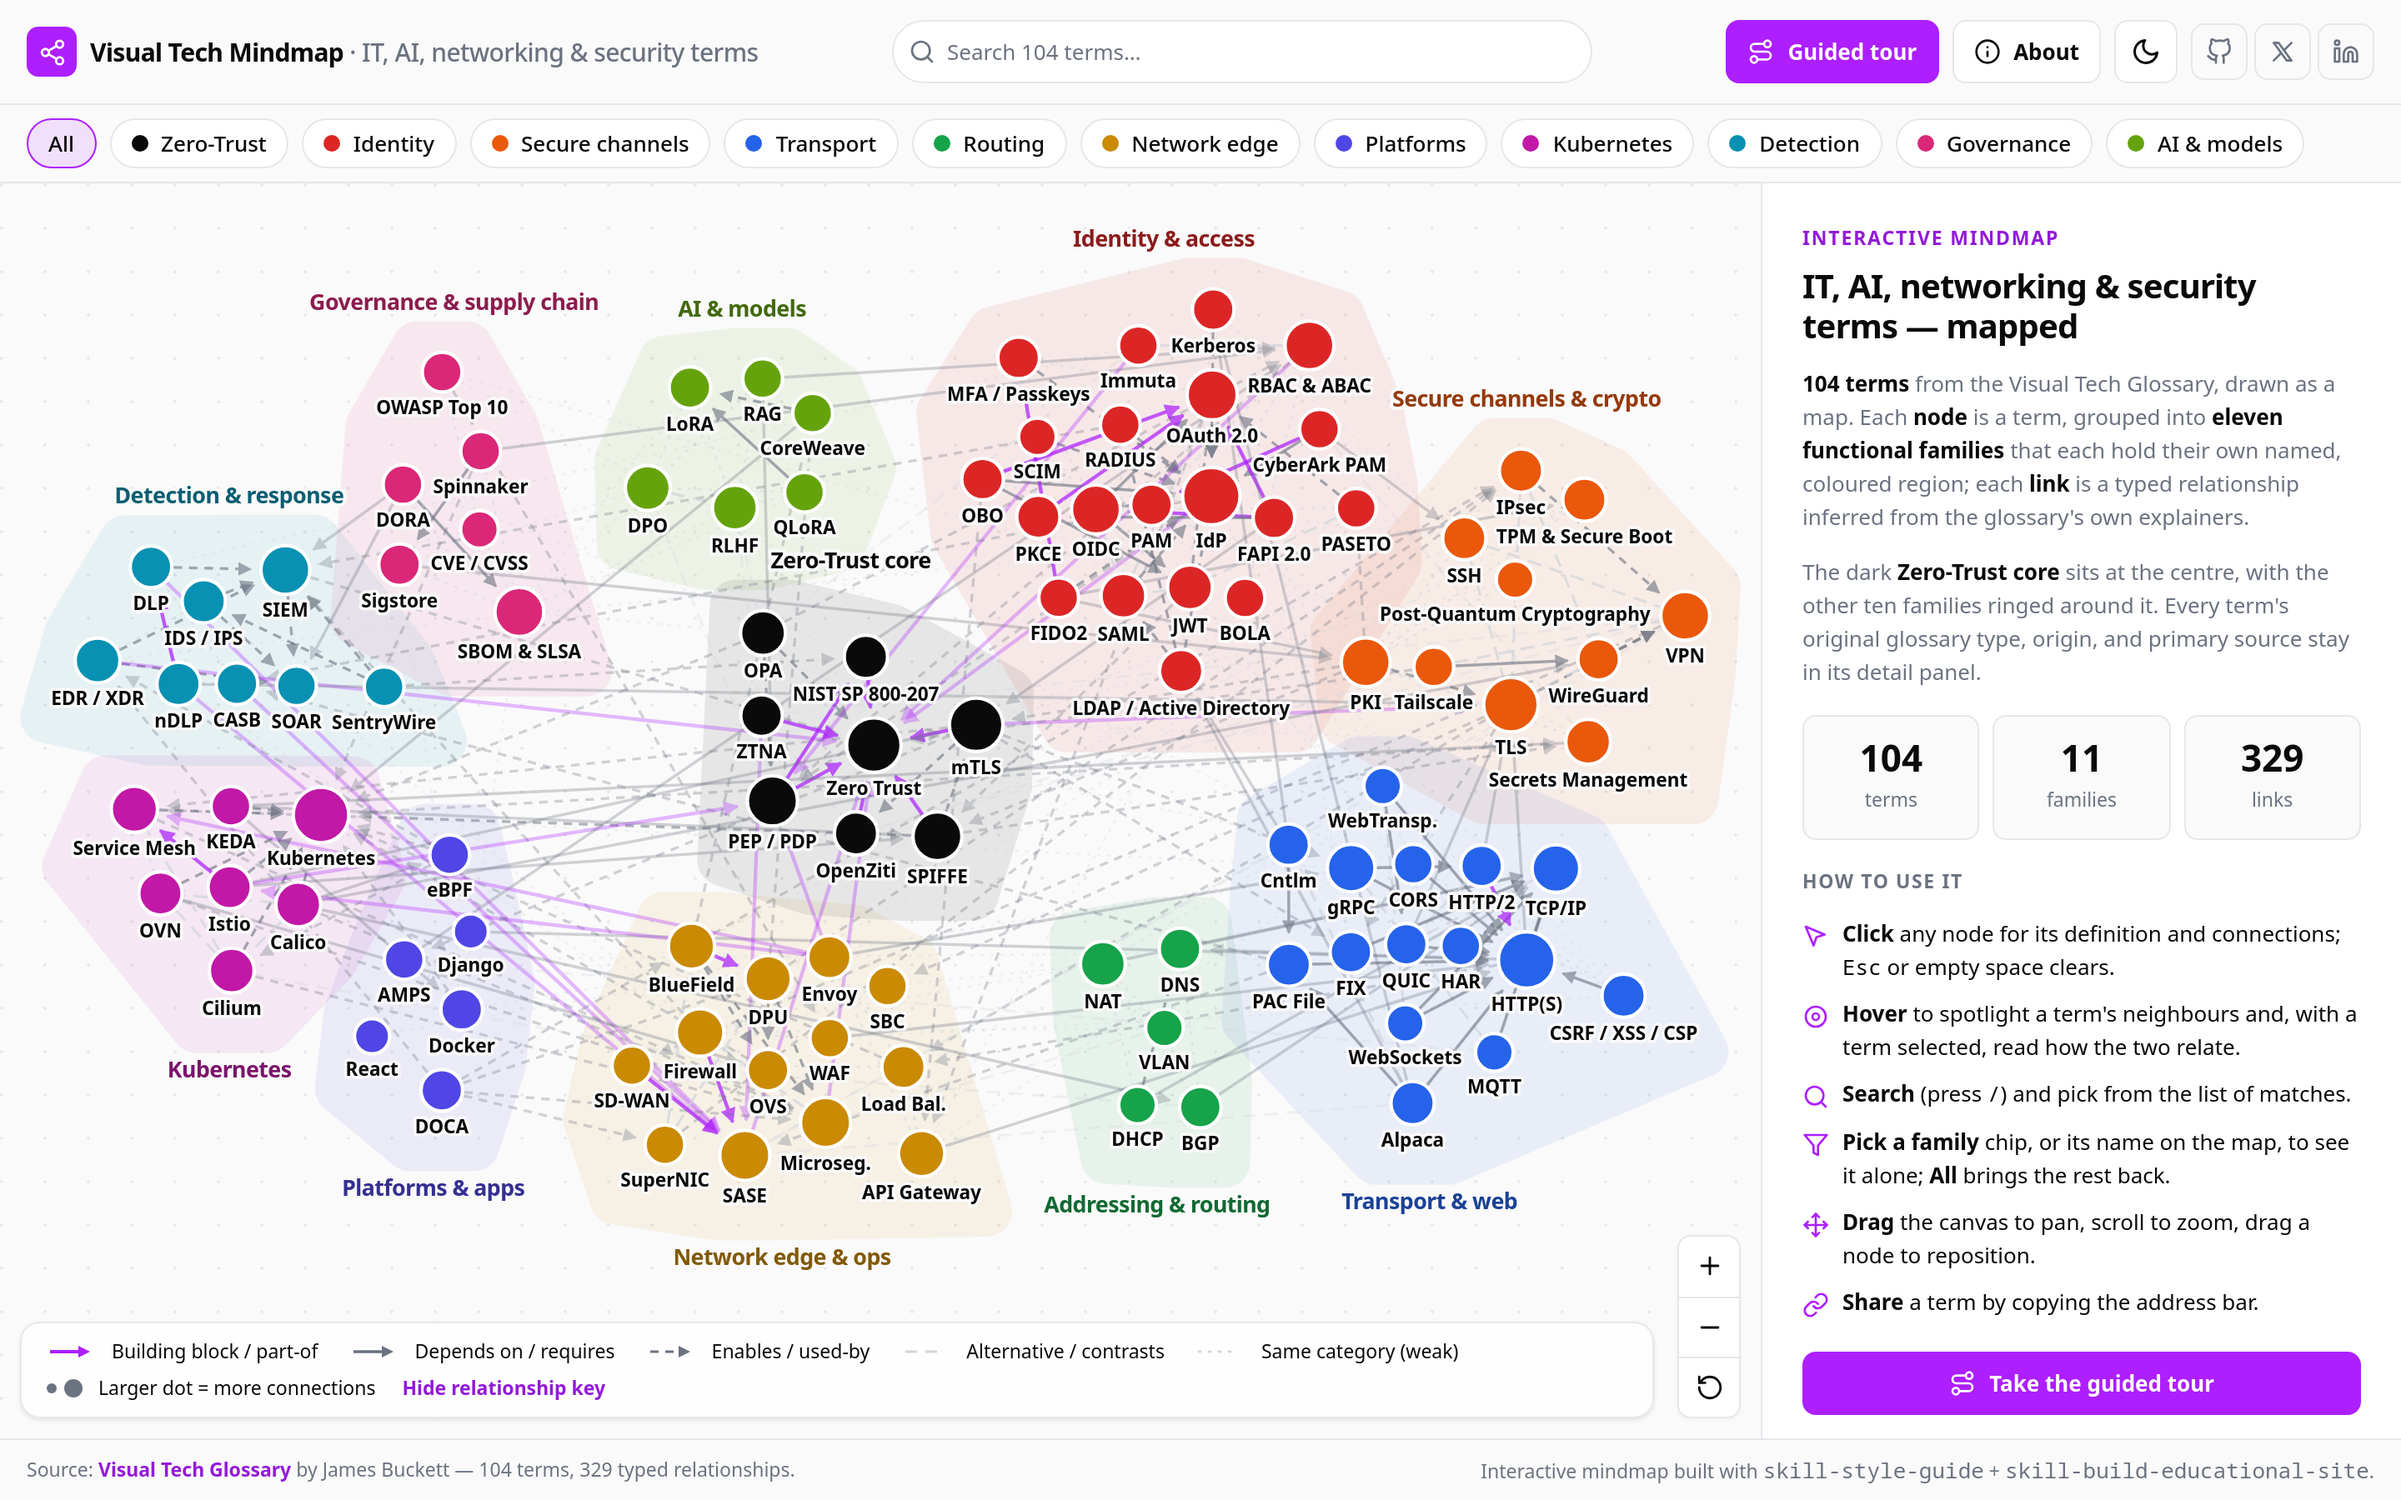
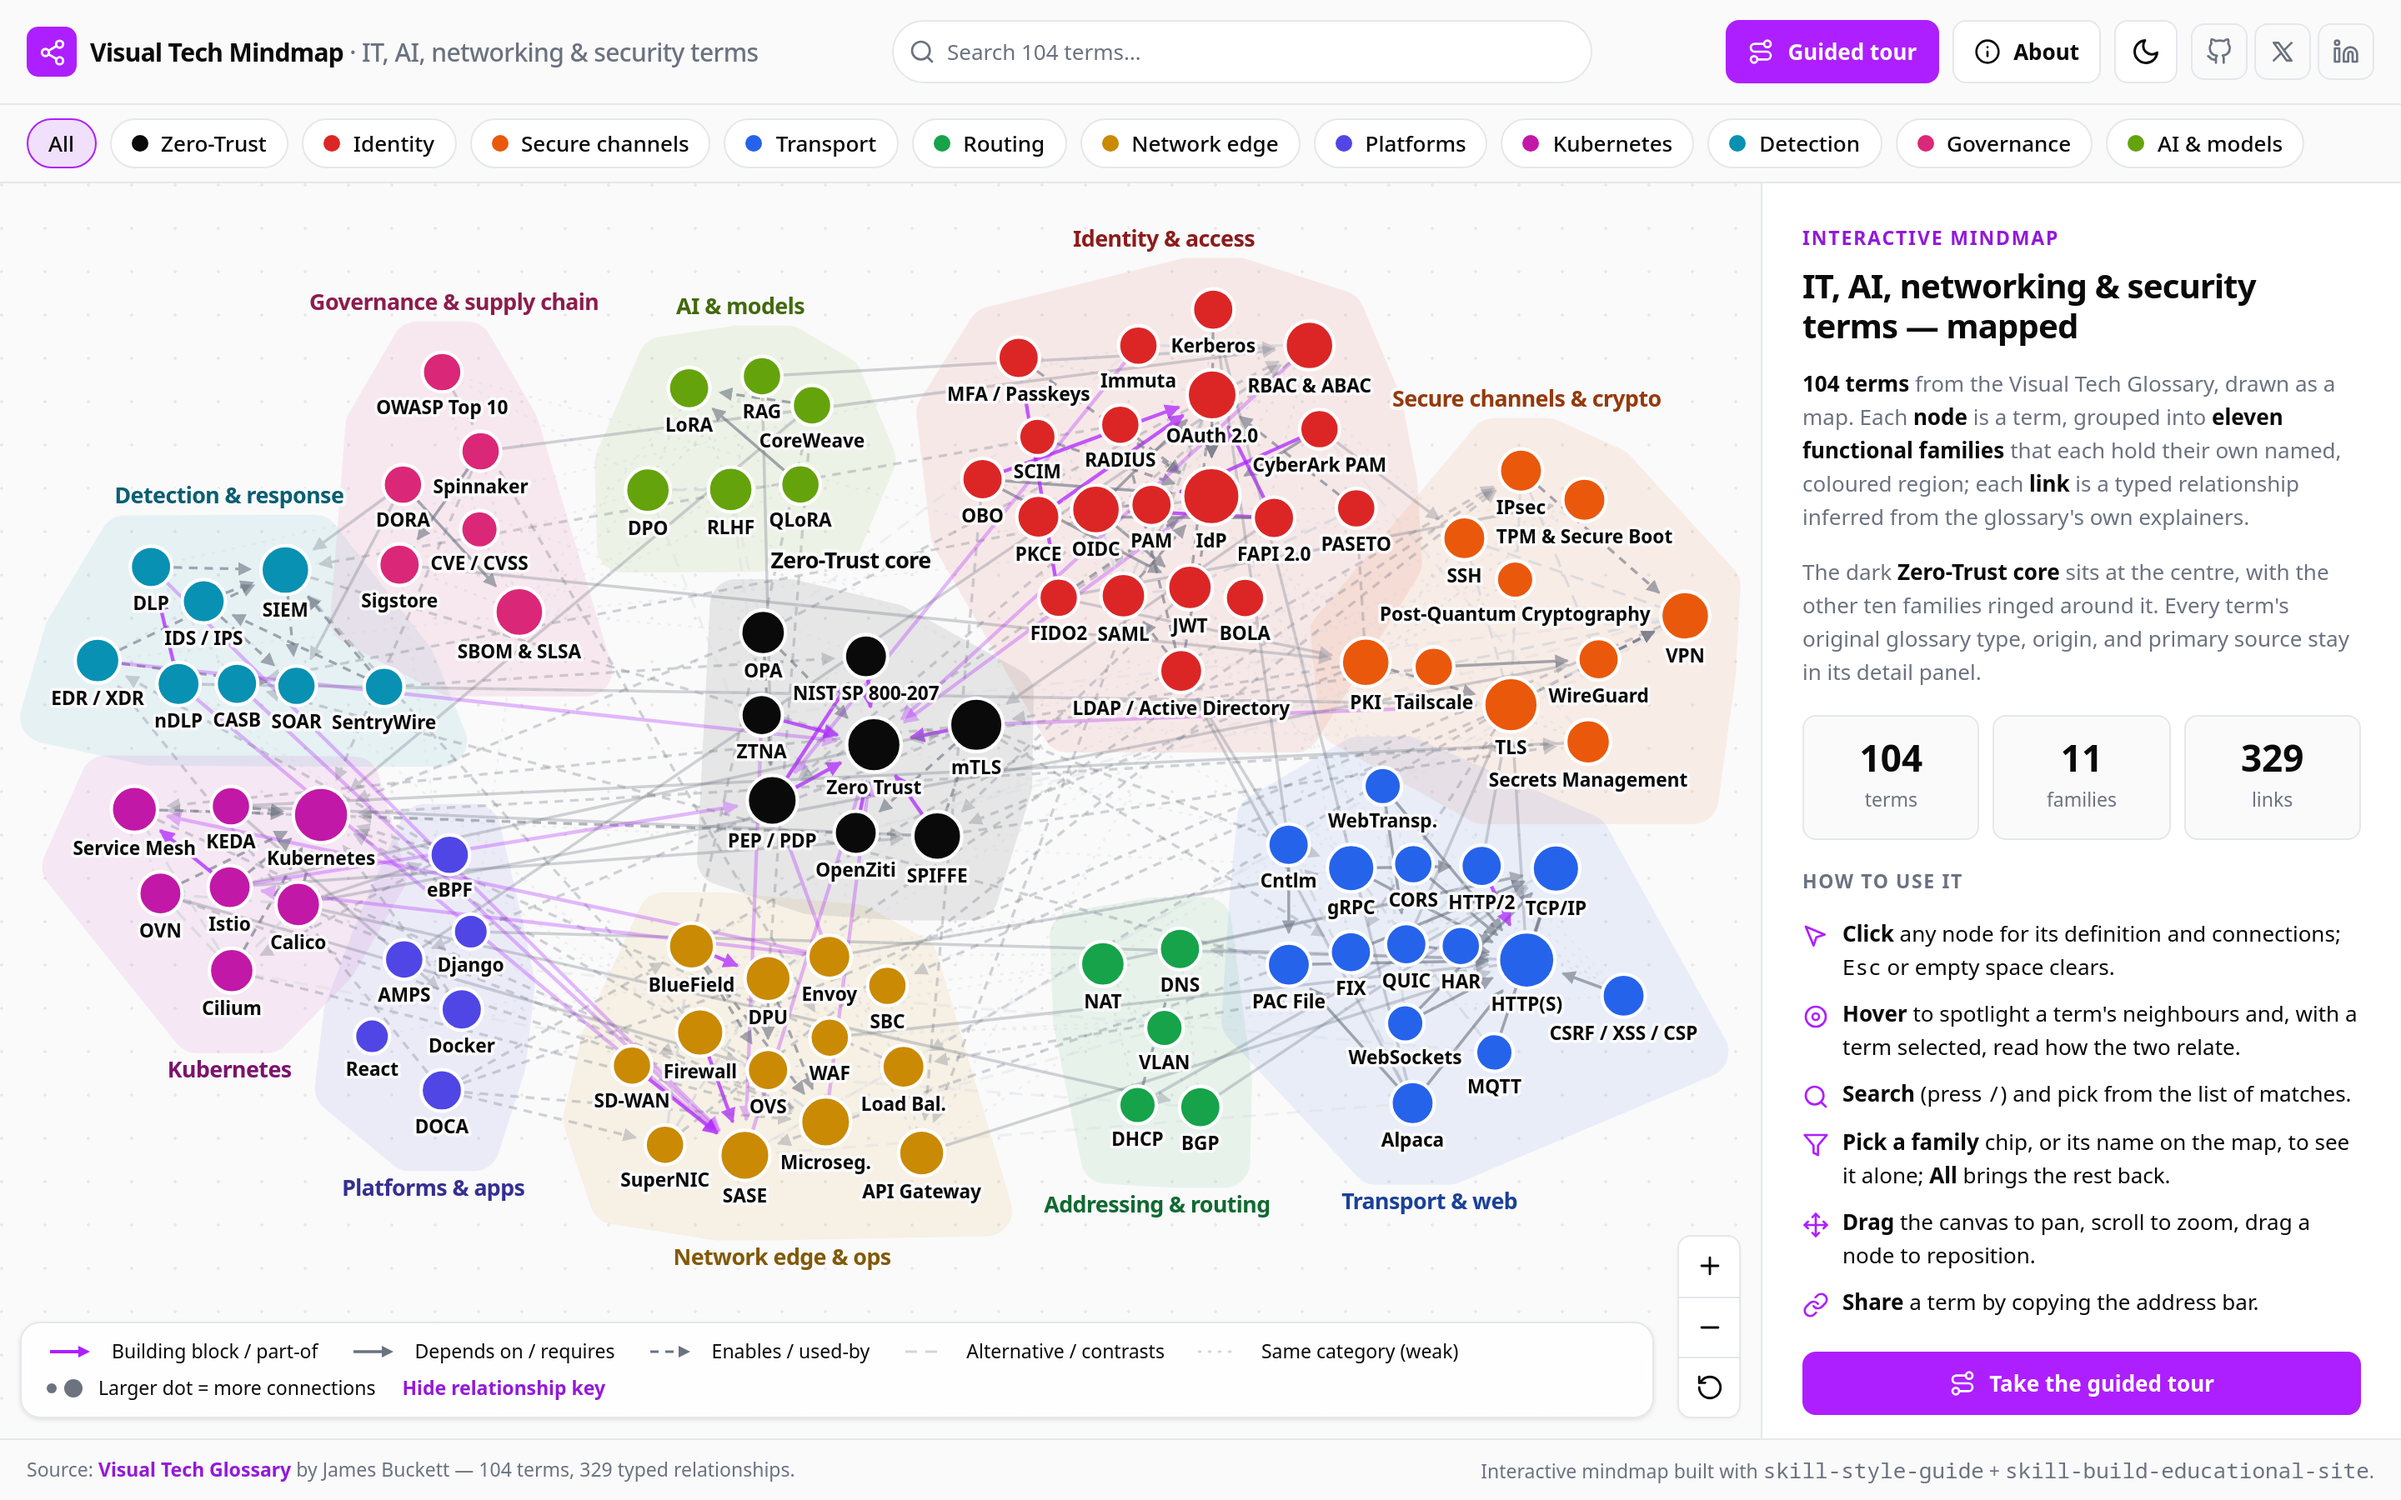
fix: keep family names out of neighbouring regions
A family's name could land inside a neighbouring family's region: it was
always centred above or below its own family, and nothing stopped a
neighbour's region, being a convex hull, from bridging straight across
it. Re-tuning RING_TURN only moved the problem around.

- chooseNameSlots(): when the layout settles, each name takes the spot on
  its own rim (above or below; left, middle or right) that lies least
  inside another region or across another name. The ring's choice wins
  ties.
- nameBox() rests the name on the terms directly beneath it rather than
  on the family's single highest term.
- clearNames(): during settling, a region that reaches over a name draws
  its nearest edge back. This frees the core's name and the tablet cases,
  where no spot on the rim was free.
- Names keep a 10px gap from each other, far-zoom names included.

No constants change. Hero recaptured.

Verified at 104 terms, measured headlessly against the regions the page
draws: names a quarter or more inside another region go from 6 to 0
across the seven tuned viewports, smaller grazes from 4 to 0, with no
term-label overlaps and the fit scale unchanged (1.03 at 1440x900, 0.80
at 1280x760, 0.66 at 1024x768; 0.89 from 0.91 at 768x1024). It holds at
every RING_TURN from 0 to 0.16, where the old code had 4 to 13.
verify.mjs 5/5; filtering, dragging, opening a term and the tour work
with a clean console, animated and under reduced motion; a11y.mjs clean.
[…]

diff --git a/index.html b/index.html
@@ -5543,8 +5543,7 @@
     // Each family owns a region: the Zero-Trust core at the centre, the others on
     // an ellipse around it in FAMILIES order, with arc share weighted by family size.
     // The ellipse is stretched past the canvas aspect ratio because labels run
-    // horizontally, and turned slightly: the turn is set by measurement, so that each
-    // family's name lands on its own rim rather than inside a neighbour's region.
+    // horizontally, and turned slightly, by an amount set by measuring the fit.
     const RING_R = 250, RING_STRETCH = 0.9, RING_TURN = 0.02;
     const ring = FAMILIES.filter((f) => f.key !== 'ztcore');
     const famSize = {};
@@ -5615,14 +5614,18 @@
       });
       for (let pass = 0; pass < 3; pass++) collide(vn);
     }
-    // once the forces have cooled, finish separating anything they were still pressing together
-    function settle() { const vn = visibleNodes(); for (let pass = 0; pass < 300 && collide(vn); pass++); }
+    // once the forces have cooled, finish separating anything they were still pressing together;
+    // the names pick their spots first, and once more when the regions have settled around them
+    function settle() {
+      const vn = visibleNodes();
+      for (let round = 0; round < 2; round++) { chooseNameSlots(vn); for (let pass = 0; pass < 300 && collide(vn, true); pass++); }
+    }
 
     // Each node is a shape of two boxes, its dot and its label (see measureNodes), so no
     // label is left sitting on another label or under a neighbour's dot. Terms of different
     // families keep FAMILY_GAP between them, and stay clear of other families' names.
-    const FAMILY_GAP = 24, EPS = 0.001;
-    function collide(vn) {
+    const FAMILY_GAP = 24, NAME_GAP = 10, EPS = 0.001;
+    function collide(vn, drawBack) {
       let moved = false;
       for (let i = 0; i < vn.length; i++) {
         const a = vn[i];
@@ -5644,6 +5647,42 @@
           const c = clearance(m.boxes, m.x, 0, n.boxes, n.x, n.y, 0);
           if (!c) return;
           n.x += c.x; n.y += c.y;
+          moved = true;
+        });
+      });
+      if (drawBack && clearNames(vn)) moved = true;
+      return moved;
+    }
+    // A neighbouring region must not reach over a family's name. Where one does, the edge of
+    // it that is least far in draws back: the two terms that make that edge move inwards.
+    function clearNames(vn) {
+      let moved = false;
+      const regions = FAMILIES.map((f) => ({ f, pts: convexHull(hullPoints(f, vn)) }));
+      FAMILIES.forEach((f) => {
+        const m = f.name;
+        if (!m) return;
+        const q = m.boxes[0], left = m.x - q.hw, right = m.x + q.hw;
+        const corners = [[left, q.t], [right, q.t], [right, q.b], [left, q.b]];
+        regions.forEach((r) => {
+          const pts = r.pts;
+          if (r.f === f || pts.length < 3) return;
+          let l = Infinity, rt = -Infinity, t = Infinity, b = -Infinity, cx = 0, cy = 0;
+          pts.forEach((p) => { l = Math.min(l, p.x); rt = Math.max(rt, p.x); t = Math.min(t, p.y); b = Math.max(b, p.y); cx += p.x / pts.length; cy += p.y / pts.length; });
+          if (rt <= left || l >= right || b <= q.t || t >= q.b) return;
+          let best = null;
+          for (let i = 0; i < pts.length; i++) {
+            const a = pts[i], c = pts[(i + 1) % pts.length], len = Math.hypot(c.x - a.x, c.y - a.y);
+            if (len < EPS) continue;
+            let nx = (c.y - a.y) / len, ny = (a.x - c.x) / len;                // the edge's normal...
+            if ((cx - a.x) * nx + (cy - a.y) * ny > 0) { nx = -nx; ny = -ny; }  // ...pointing out of the region
+            let depth = -Infinity;
+            corners.forEach((p) => { depth = Math.max(depth, -((p[0] - a.x) * nx + (p[1] - a.y) * ny)); });
+            if (depth <= 0) return; // the whole name lies outside this edge
+            if (!best || depth < best.depth) best = { depth, nx, ny, a, c };
+          }
+          if (!best) return;
+          const step = Math.min(best.depth + 1, 6);
+          new Set([best.a.n, best.c.n]).forEach((n) => { n.x -= best.nx * step; n.y -= best.ny * step; });
           moved = true;
         });
       });
@@ -5670,17 +5709,59 @@
       if (across <= down && across <= up) return { x: dx < 0 ? -across : across, y: 0 };
       return { x: 0, y: down <= up ? down : -up };
     }
-    // where a family's name sits: centred on the family, on the rim of its hull
-    function nameBox(f, vn) {
-      let sx = 0, c = 0, top = Infinity, bot = -Infinity;
-      vn.forEach((n) => {
-        if (n.family !== f.key) return;
-        sx += n.x; c++; top = Math.min(top, n.y + n.boxes[0].t); bot = Math.max(bot, n.y + n.vh);
+    // where a family's name sits: on the rim of its own region, above or below it and lined up
+    // with its middle or one edge (see chooseNameSlots), resting on the terms directly beneath
+    function nameBox(f, vn, trial) {
+      const own = vn.filter((n) => n.family === f.key);
+      if (!own.length) return trial ? null : (f.name = null);
+      const slot = trial || f.slot || { above: f.nameAbove, align: 0 };
+      let sx = 0, minX = Infinity, maxX = -Infinity, top = Infinity, bot = -Infinity;
+      own.forEach((n) => {
+        sx += n.x; minX = Math.min(minX, n.x - n.hw); maxX = Math.max(maxX, n.x + n.hw);
+        top = Math.min(top, n.y + n.boxes[0].t); bot = Math.max(bot, n.y + n.vh);
       });
-      if (!c) return (f.name = null);
-      const above = f.nameAbove;
-      const rim = above ? top - HULL_PAD : bot + HULL_PAD;
-      return (f.name = { x: sx / c, above, rim, mid: (top + bot) / 2, boxes: [{ hw: f.nameW / 2 + 4, t: above ? rim - NAME_PX * 1.5 : rim - 3, b: above ? rim + 3 : rim + NAME_PX * 1.5 }] });
+      const cx = sx / own.length, hw = f.nameW / 2 + 4, wide = hw > (maxX - minX) / 2;
+      // lined up with an edge, a name wider than its family overhangs on that side
+      const x = !slot.align ? cx : (slot.align < 0) !== wide ? minX + hw : maxX - hw;
+      let t = Infinity, b = -Infinity;
+      own.forEach((n) => { if (Math.abs(n.x - x) < hw + n.hw) { t = Math.min(t, n.y + n.boxes[0].t); b = Math.max(b, n.y + n.vh); } });
+      const rim = slot.above ? (t < Infinity ? t : top) - HULL_PAD : (b > -Infinity ? b : bot) + HULL_PAD;
+      const m = { x, cx, above: slot.above, rim, mid: (top + bot) / 2, boxes: [{ hw, t: slot.above ? rim - NAME_PX * 1.5 : rim - 3, b: slot.above ? rim + 3 : rim + NAME_PX * 1.5 }] };
+      return trial ? m : (f.name = m);
+    }
+    // Each name takes the spot on its own rim that lies least inside a neighbouring region or
+    // across another name. The ring decides the first choice (see placeAnchors), which wins ties.
+    function chooseNameSlots(vn) {
+      const regions = FAMILIES.map((f) => ({ key: f.key, pts: convexHull(hullPoints(f, vn)) })), taken = [];
+      const inRegion = (pts, x, y) => {
+        if (pts.length < 3) return false;
+        let sign = 0;
+        for (let i = 0; i < pts.length; i++) {
+          const a = pts[i], b = pts[(i + 1) % pts.length], c = (b.x - a.x) * (y - a.y) - (b.y - a.y) * (x - a.x);
+          if (c !== 0) { if (sign && (c > 0) !== (sign > 0)) return false; sign = c; }
+        }
+        return true;
+      };
+      FAMILIES.forEach((f) => {
+        let best = null;
+        [f.nameAbove, !f.nameAbove].forEach((above, flipped) => [0, -1, 1].forEach((align) => {
+          const m = nameBox(f, vn, { above, align });
+          if (!m) return;
+          // how much of the name, sampled on a 9 x 3 grid, another region or name already covers
+          const q = m.boxes[0];
+          let covered = 0;
+          for (let i = 0; i < 9; i++) for (let j = 0; j < 3; j++) {
+            const x = m.x - q.hw + (2 * q.hw * (i + 0.5)) / 9, y = q.t + ((q.b - q.t) * (j + 0.5)) / 3;
+            if (regions.some((r) => r.key !== f.key && inRegion(r.pts, x, y)) || taken.some((r) => x > r.l - NAME_GAP && x < r.r + NAME_GAP && y > r.t && y < r.b)) covered++;
+          }
+          // moving off the first choice has to be worth it
+          const cost = covered / 27 + flipped * 0.1 + (align ? 0.05 : 0);
+          if (!best || cost < best.cost) best = { above, align, cost, l: m.x - q.hw, r: m.x + q.hw, t: q.t, b: q.b };
+        }));
+        if (!best) return;
+        f.slot = { above: best.above, align: best.align };
+        taken.push(best);
+      });
     }
 
     /* ---------------------------- render ----------------------------- */
@@ -5755,15 +5836,20 @@
       lower.pop(); upper.pop();
       return lower.concat(upper);
     }
+    // the corners a family's region is drawn around: each term's dot and the label beneath it
+    function hullPoints(f, vn) {
+      const pts = [];
+      vn.forEach((n) => {
+        if (n.family !== f.key) return;
+        const d = n.boxes[0], l = n.boxes[1];
+        pts.push({ x: n.x - d.hw, y: n.y + d.t, n }, { x: n.x + d.hw, y: n.y + d.t, n }, { x: n.x - l.hw, y: n.y + l.b, n }, { x: n.x + l.hw, y: n.y + l.b, n });
+      });
+      return pts;
+    }
     function renderHulls() {
       const vn = visibleNodes();
       FAMILIES.forEach((f) => {
-        const pts = [];
-        vn.forEach((n) => {
-          if (n.family !== f.key) return;
-          const d = n.boxes[0], l = n.boxes[1];
-          pts.push({ x: n.x - d.hw, y: n.y + d.t }, { x: n.x + d.hw, y: n.y + d.t }, { x: n.x - l.hw, y: n.y + l.b }, { x: n.x + l.hw, y: n.y + l.b });
-        });
+        const pts = hullPoints(f, vn);
         f.hullEl.classList.toggle('is-hidden', !pts.length);
         f.nameEl.classList.toggle('is-hidden', !pts.length);
         nameBox(f, vn);
@@ -5781,7 +5867,7 @@
         // on-region names can meet where two small families sit side by side: ease them apart
         const hw = (f) => (f.shortW * fs) / NAME_PX / 2;
         for (let pass = 0; pass < 4; pass++) shown.forEach((a, i) => shown.slice(i + 1).forEach((b) => {
-          if (Math.abs(a.name.x - b.name.x) >= hw(a) + hw(b)) return;
+          if (Math.abs(a.name.cx - b.name.cx) >= hw(a) + hw(b) + NAME_GAP / view.k) return;
           const over = fs * 1.2 - Math.abs(a.nameY - b.nameY);
           if (over <= 0) return;
           const s = (a.nameY <= b.nameY ? -over : over) / 2;
@@ -5793,7 +5879,7 @@
         if (f.nameEl.textContent !== text) f.nameEl.textContent = text;
         if (!f.name) return;
         f.nameEl.style.fontSize = fs + 'px';
-        f.nameEl.setAttribute('x', f.name.x);
+        f.nameEl.setAttribute('x', far ? f.name.cx : f.name.x);
         f.nameEl.setAttribute('y', f.nameY + fs * 0.35);
       });
     }
